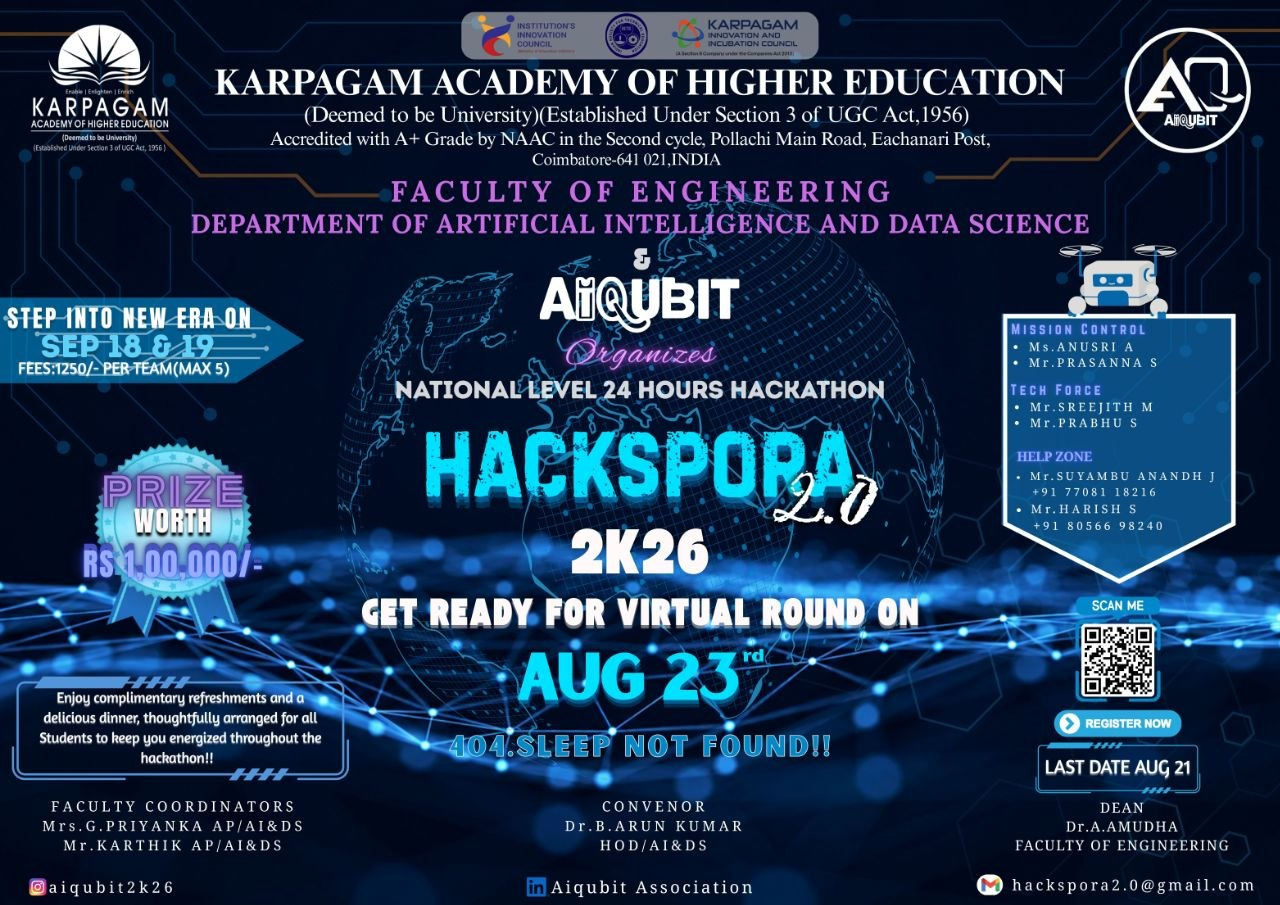
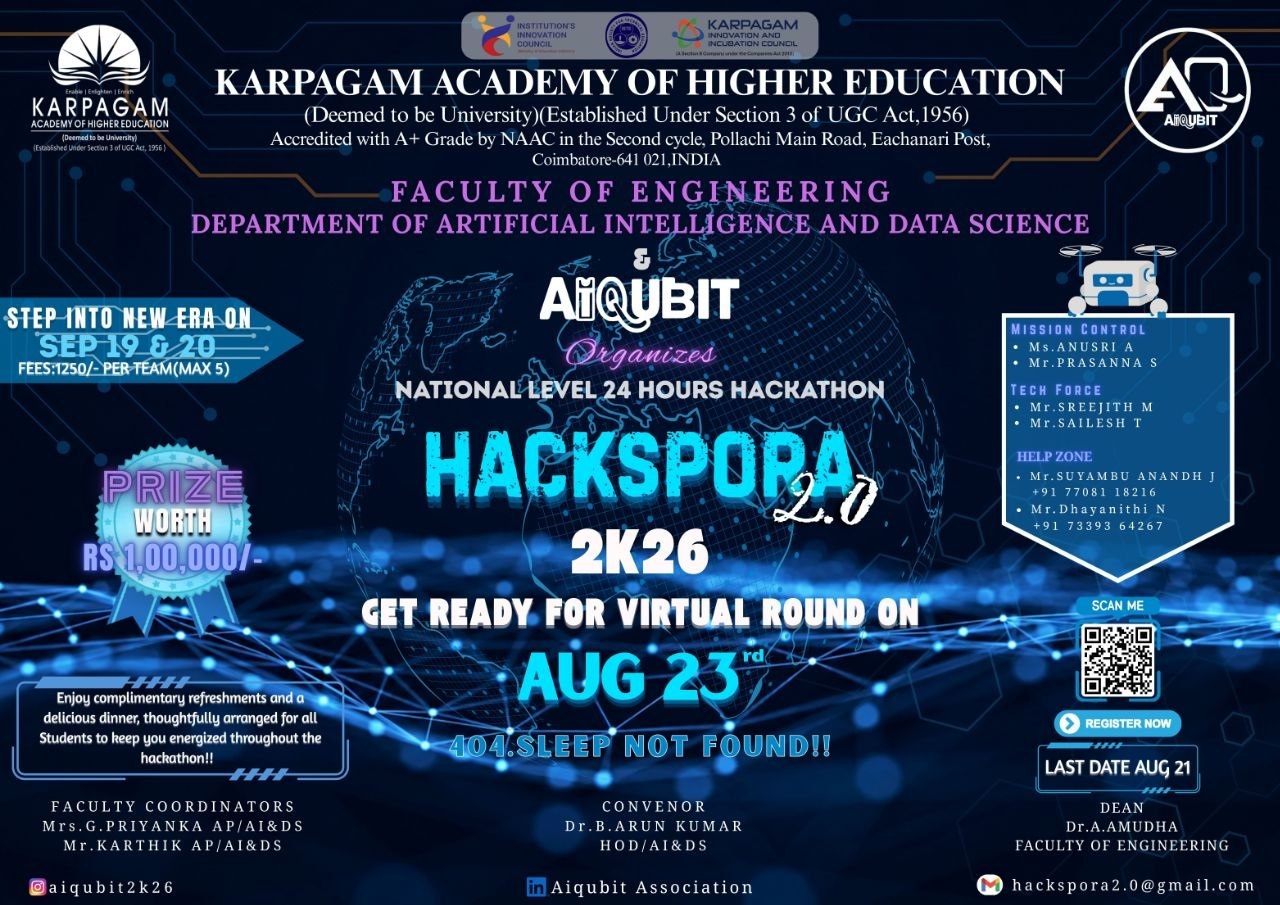
broucher update and footer

diff --git a/client/src/components/layout/Footer.jsx b/client/src/components/layout/Footer.jsx
@@ -159,7 +159,7 @@ export default function Footer() {
                 </li>
                 <li className="flex items-center space-x-2">
                   <span className="w-1.5 h-1.5 rounded-full bg-indigo-400 shrink-0" />
-                  <span>Mr. PRABHU S</span>
+                  <span>Mr. SAILESH T</span>
                 </li>
               </ul>
             </div>
@@ -186,13 +186,13 @@ export default function Footer() {
                 </div>
 
                 <div>
-                  <div className="font-semibold text-white">Mr. HARISH S</div>
+                  <div className="font-semibold text-white">Mr. DHAYANITHI N</div>
                   <a
                     href="tel:+918056698240"
                     className="inline-flex items-center space-x-1.5 text-cyan-300 hover:text-cyan-200 transition-colors mt-0.5 text-xs font-mono font-medium"
                   >
                     <HiPhone className="w-3 h-3 text-cyan-400" />
-                    <span>+91 80566 98240</span>
+                    <span>+91 73393 64267</span>
                   </a>
                 </div>
               </div>

diff --git a/client/src/features/landing/components/GuidelinesSection.jsx b/client/src/features/landing/components/GuidelinesSection.jsx
@@ -43,8 +43,8 @@ const timelineRounds = [
       'Reporting Time: 7:00 AM – 9:00 AM',
       'Inauguration & Briefing: 9:00 AM',
       'Problem Statement Release: 9:45 AM',
-      'Hackathon Begins: 10:00 AM (18 September 2026)',
-      'Hackathon Ends: 12:00 PM (19 September 2026)',
+      'Hackathon Begins: 10:00 AM (19 September 2026)',
+      'Hackathon Ends: 12:00 PM (20 September 2026)',
       'A fresh set of new problem statements will be released at the beginning of the offline round.',
     ],
   },

diff --git a/client/src/features/home/components/HeroSection.jsx b/client/src/features/home/components/HeroSection.jsx
@@ -319,7 +319,7 @@ export default function HeroSection() {
                   </div>
                   <div>
                     <span className="block text-[10px] font-semibold text-slate-400 uppercase">Event Dates</span>
-                    <span className="block text-xs font-bold text-white">Aug 23 & Sep 18–19, 2026</span>
+                    <span className="block text-xs font-bold text-white">Aug 23 & Sep 19–20, 2026</span>
                   </div>
                 </div>
 
